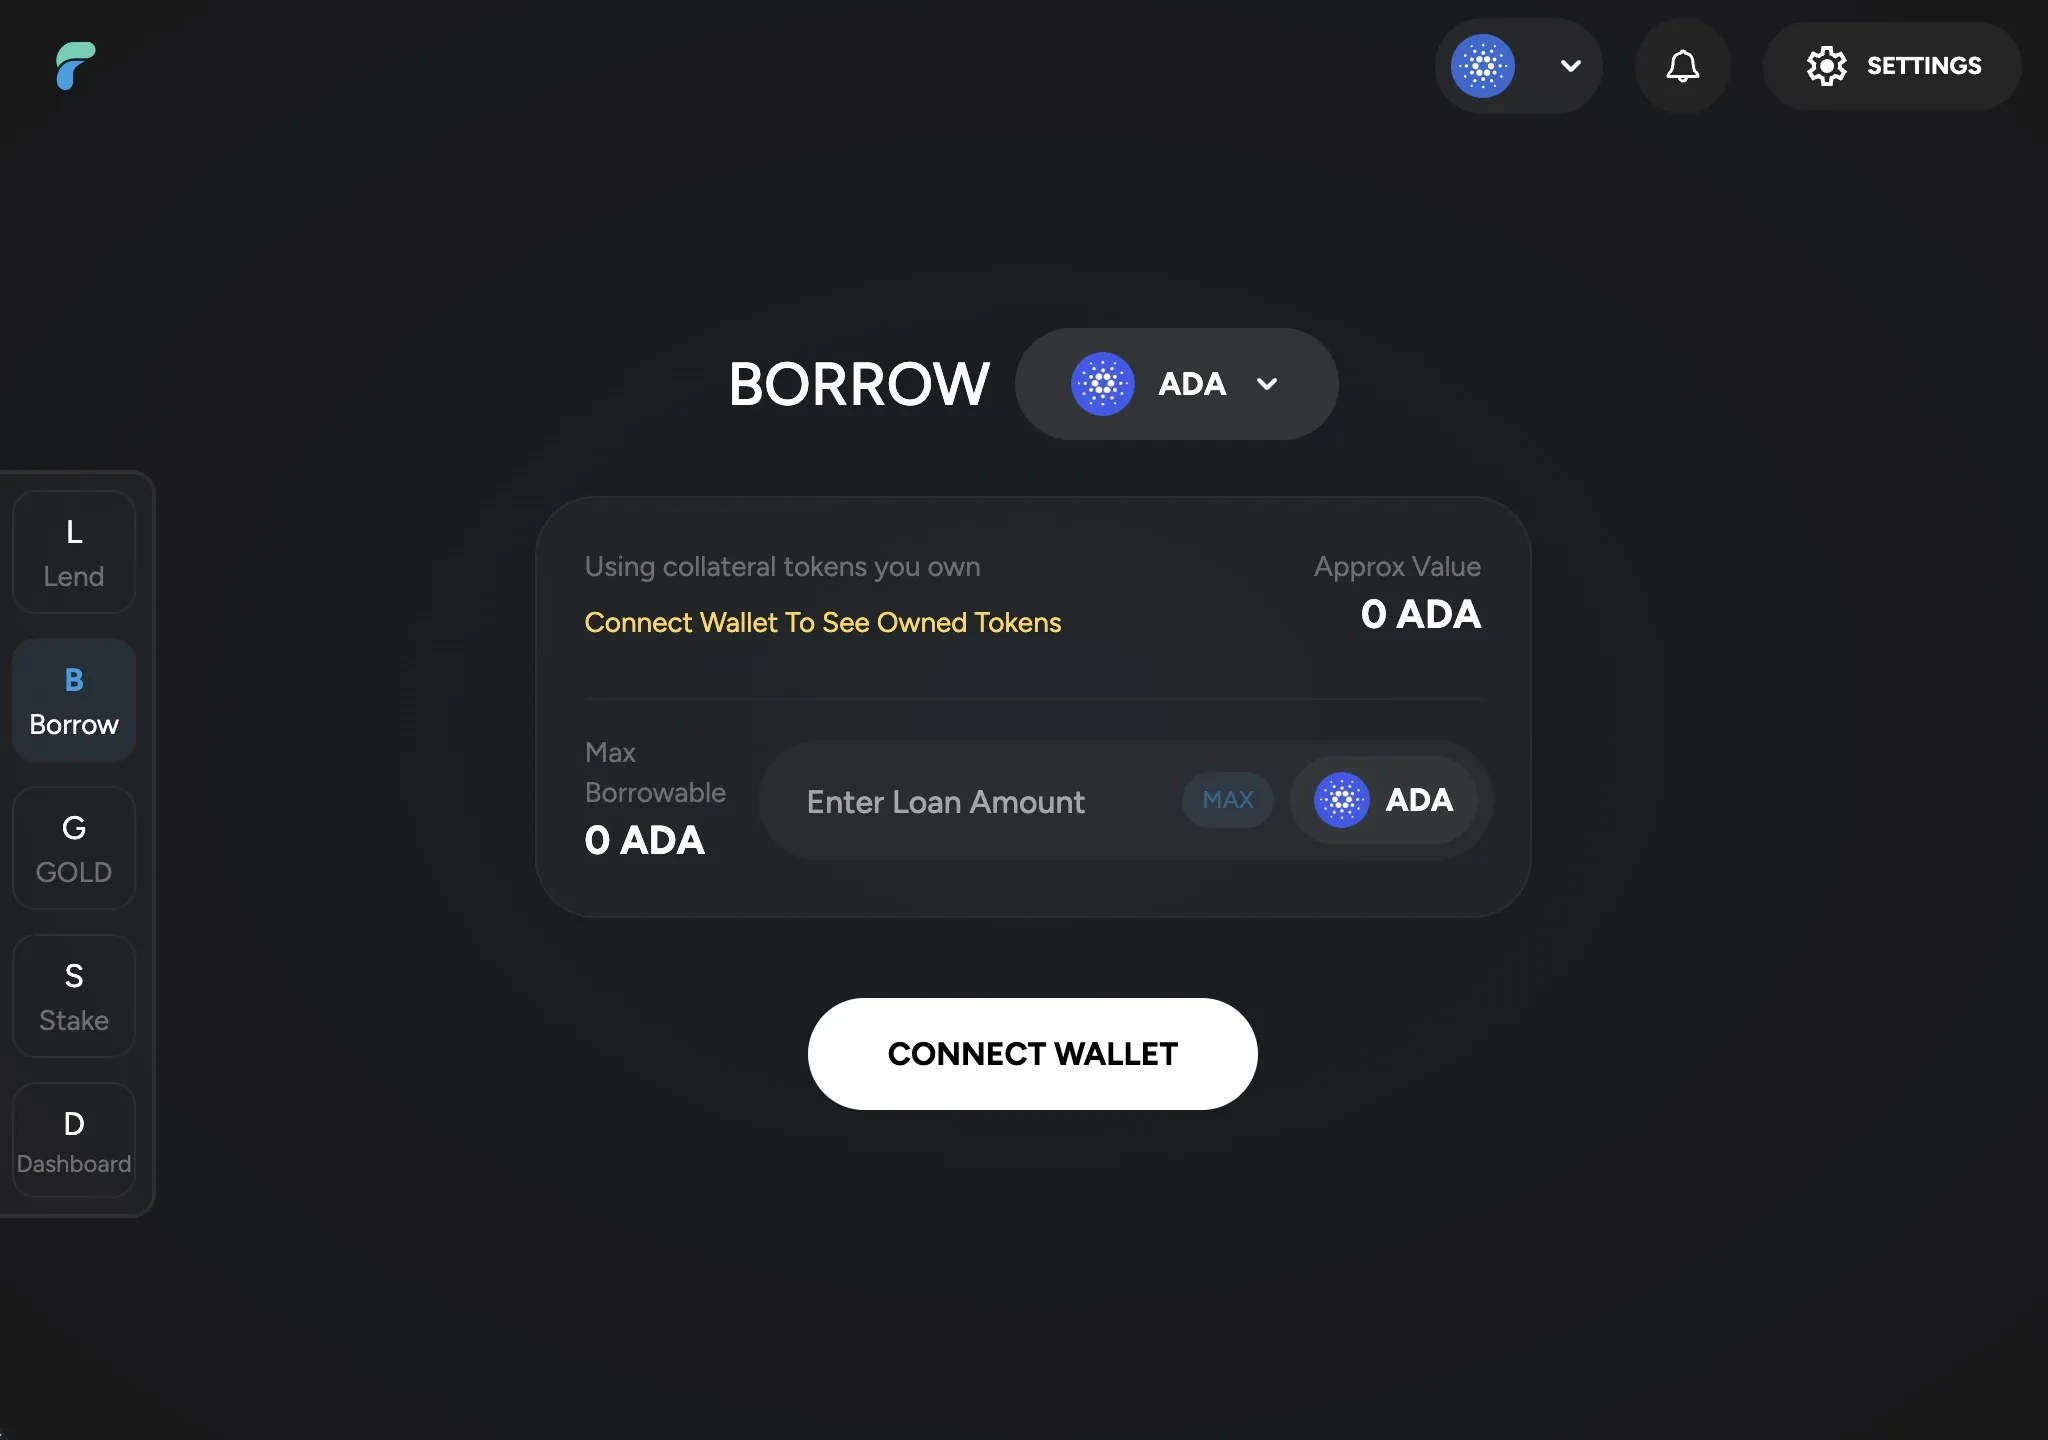
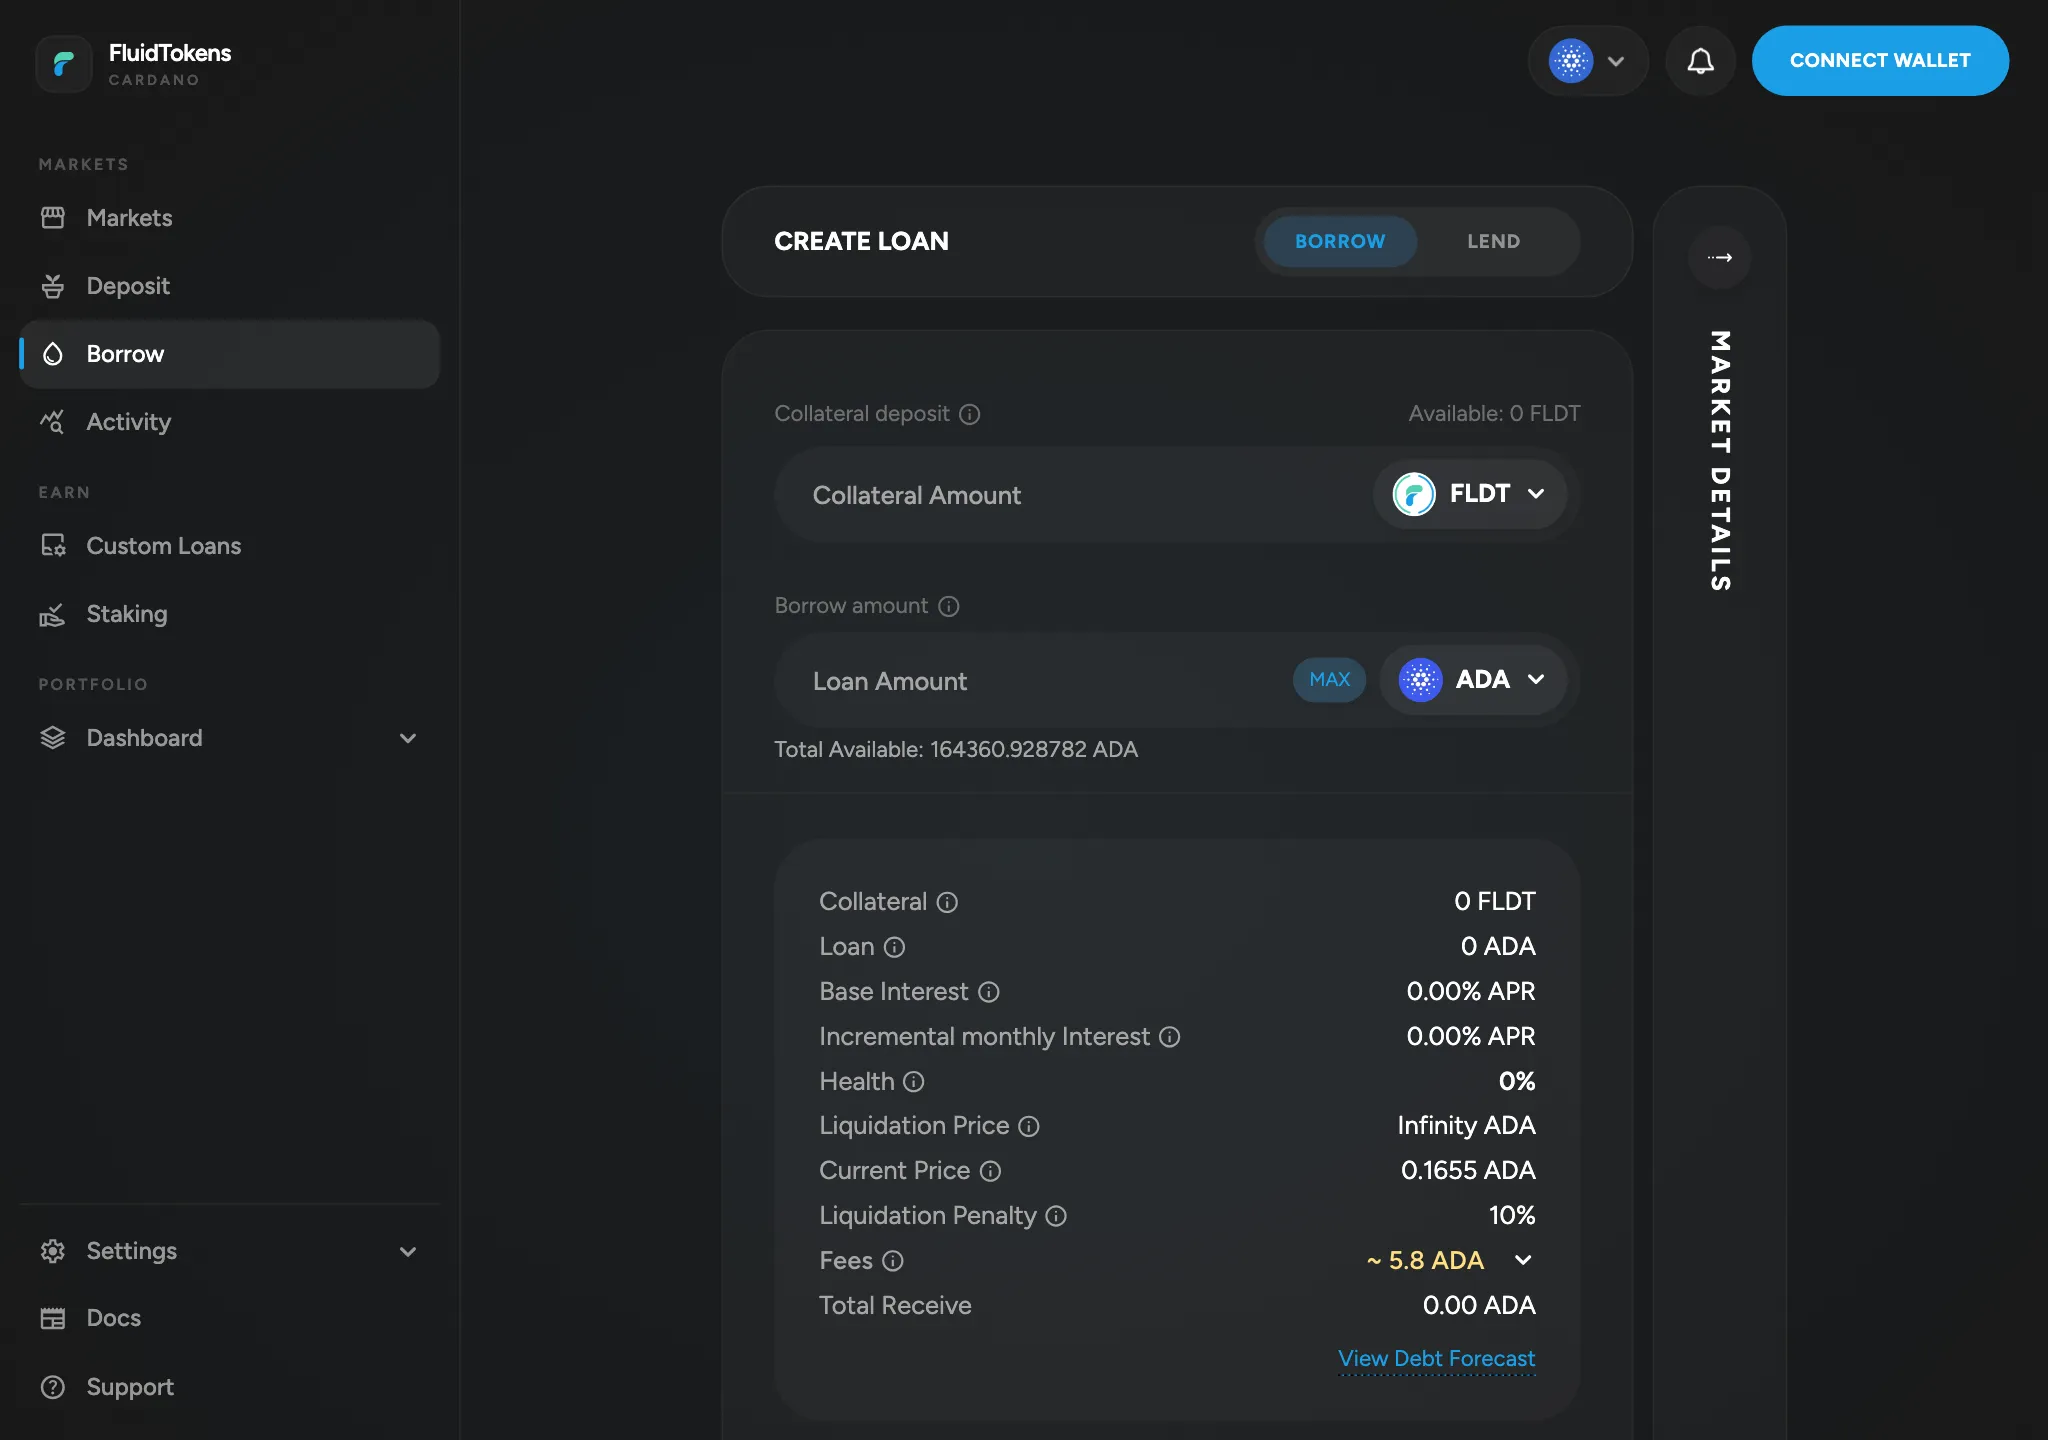
fix: update FluidTokens screenshots and add statsLabel
Add statsLabel "fluid-tokens" so the /apps tile, detail page and lending
ordering pick up the existing tx-stats entry. Refresh the preview and
extra screenshots after the app UI redesign, drop the obsolete Gold view
and regenerate the OG card.

diff --git a/src/data/apps.js b/src/data/apps.js
@@ -1275,9 +1275,11 @@ export const Showcases = [
     preview: require("./app-screenshots/fluidtokens.webp"),
     extraPreviews: [
       require("./app-screenshots/fluidtokens-borrow.webp"),
-      require("./app-screenshots/fluidtokens-gold.webp"),
+      require("./app-screenshots/fluidtokens-lend.webp"),
+      require("./app-screenshots/fluidtokens-staking.webp"),
     ],
     icon: "/img/app-icons/fluidtoken.png",
+    statsLabel: "fluid-tokens",
     website: "https://fluidtokens.com/",
     source: "https://github.com/fluidtokens",
     category: "lending",
